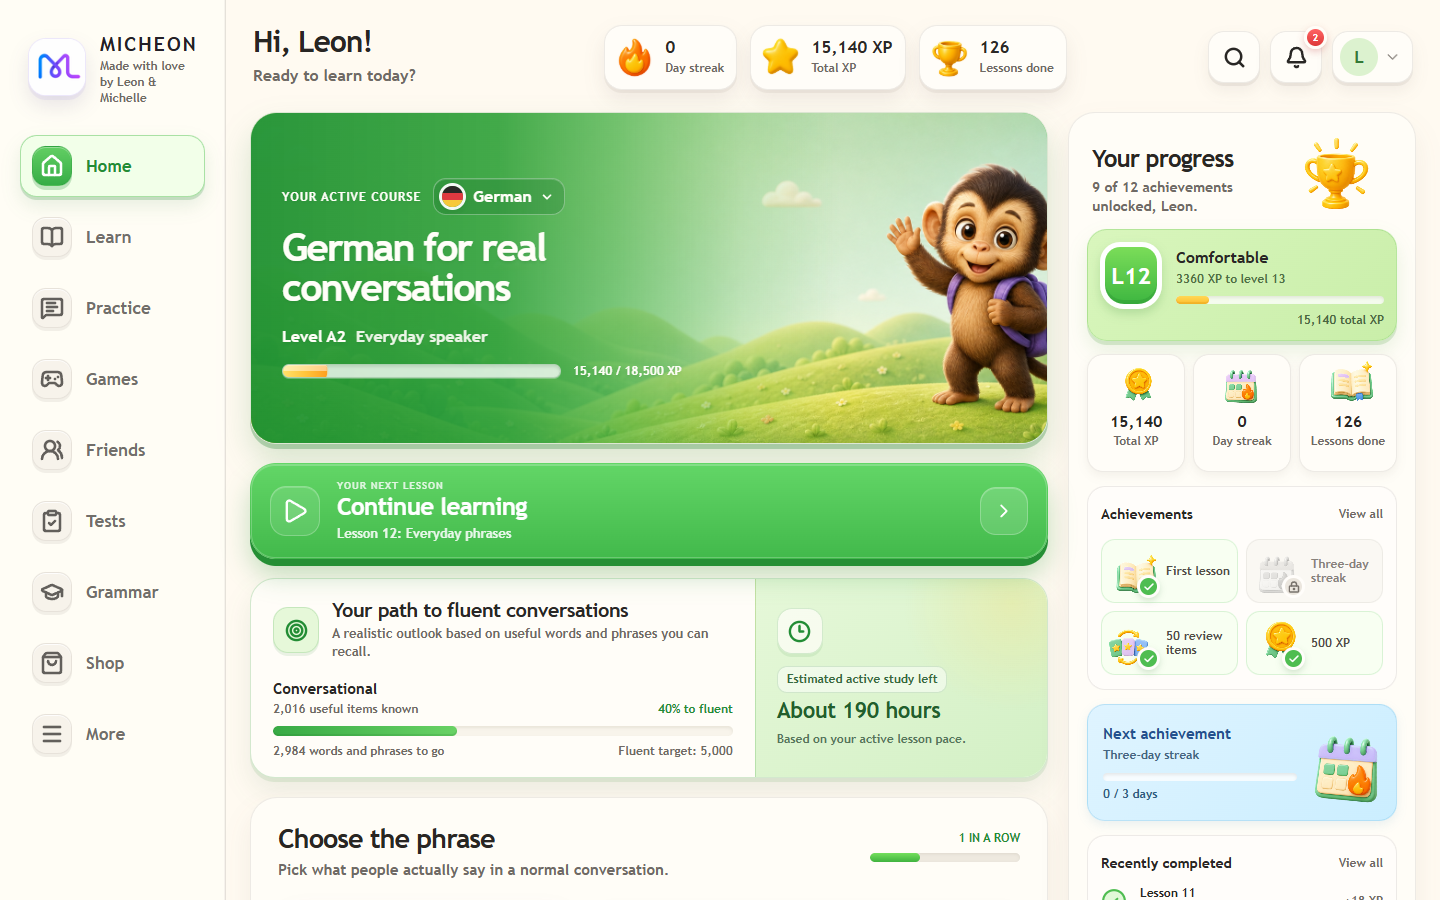
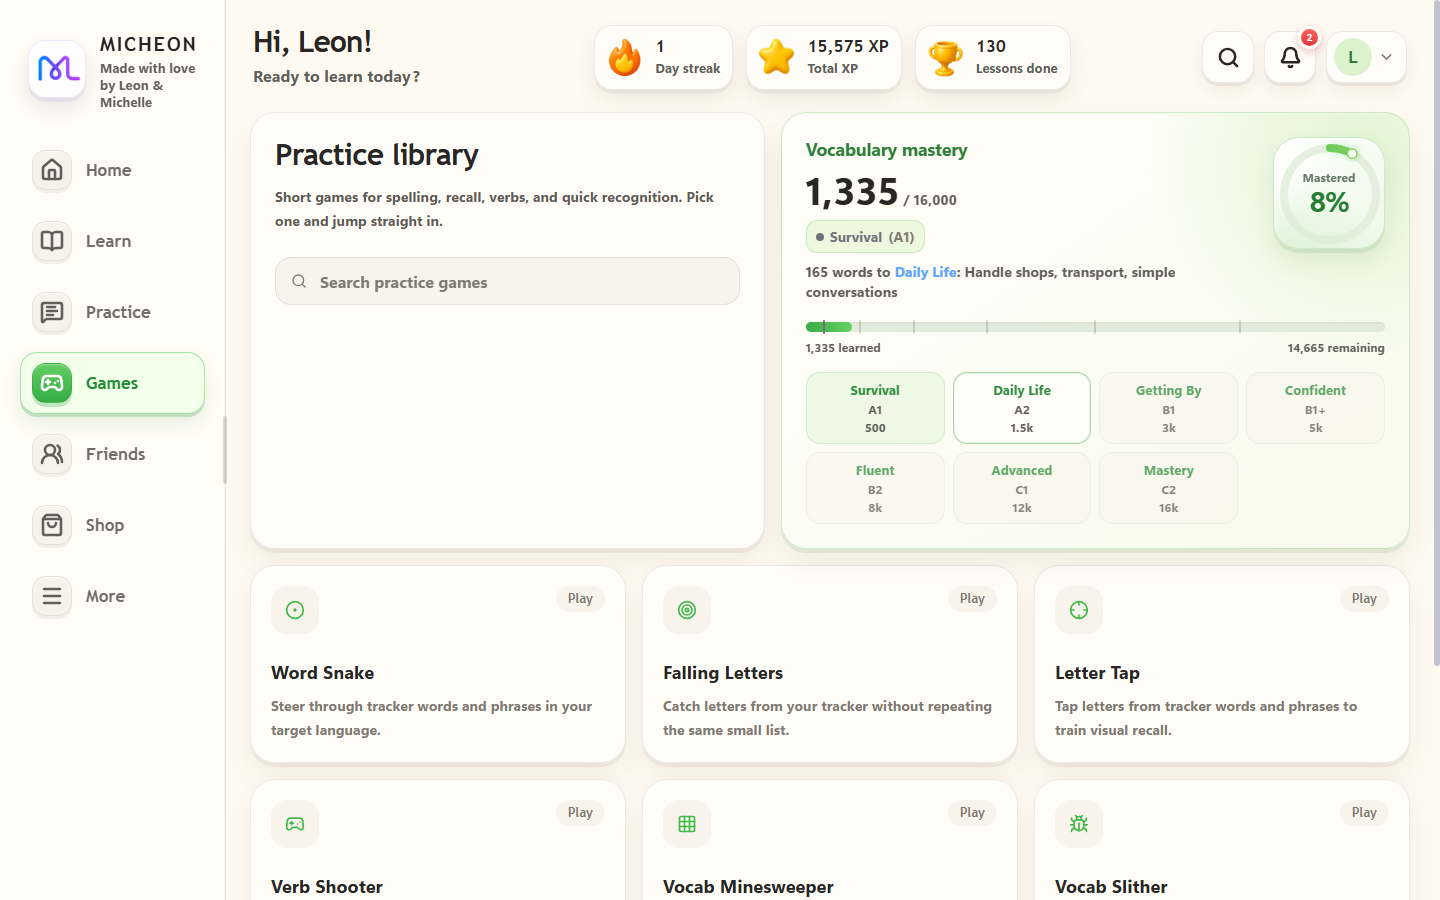
Release v1.2.113 with a responsive dashboard header and fresh showcase screenshots
Fixes the 761-1024px window band where the day-streak and XP chips
overlapped the search, notification, and profile buttons: the chips
now move onto their own full-width row, mirroring the mobile layout.
Refreshes the README home, games, and guided-lesson screenshots to
match the current shell (new sidebar, hero, and Michelle companion).

diff --git a/src/prototype/new-ui-prototype.css b/src/prototype/new-ui-prototype.css
@@ -4074,6 +4074,36 @@ html.is-resizing-prototype-sidebar .new-ui-prototype * {
   }
 }
 
+@media (max-width: 1024px) and (min-width: 761px) {
+  .np-header {
+    grid-template-columns: minmax(0, 1fr) auto;
+    row-gap: 14px;
+  }
+
+  .np-greeting {
+    grid-column: 1;
+    grid-row: 1;
+    min-width: 0;
+  }
+
+  .np-header-actions {
+    grid-column: 2;
+    grid-row: 1;
+  }
+
+  .np-header-stats {
+    display: grid;
+    grid-column: 1 / -1;
+    grid-row: 2;
+    grid-template-columns: repeat(2, minmax(0, 1fr));
+    gap: 12px;
+  }
+
+  .np-stat-chip {
+    min-width: 0;
+  }
+}
+
 @media (max-width: 760px) {
   html.is-ui-prototype,
   html.is-ui-prototype body,
